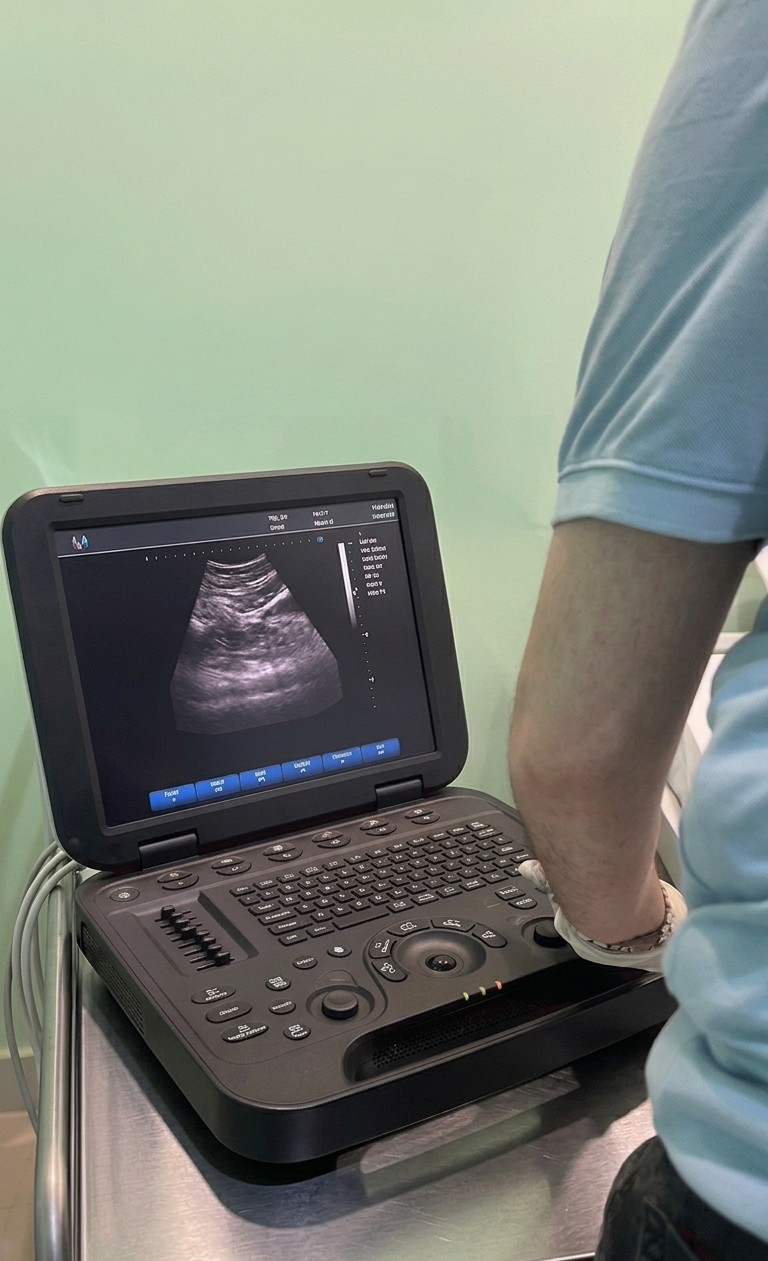
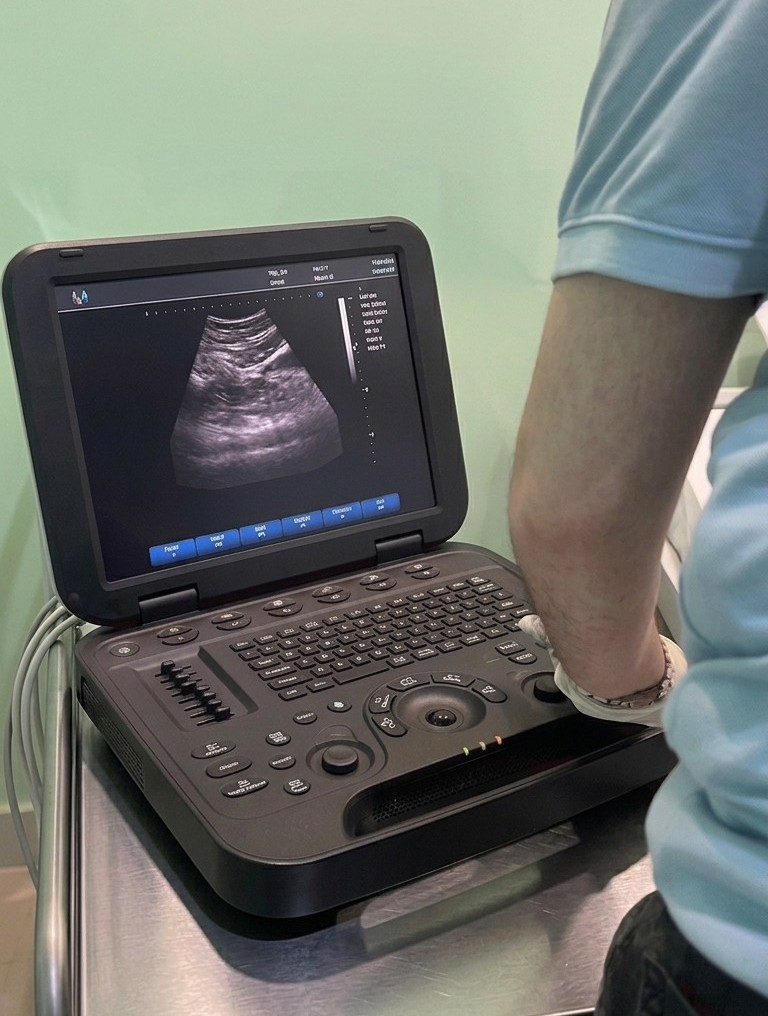
Frontend pictures and reviews added

diff --git a/app/about/page.jsx b/app/about/page.jsx
@@ -43,7 +43,7 @@ export default function AboutPage() {
                 with a modern approach
               </span>
             </h1>
-            
+
             <p className="text-zinc-400 max-w-2xl mx-auto text-base md:text-lg leading-relaxed">
               We believe healthcare should be seamless, deeply personal, and powered by state-of-the-art technology. Learn more about the principles and medical professionals that guide us every single day.
             </p>
@@ -57,7 +57,7 @@ export default function AboutPage() {
 
           <div className="max-w-7xl mx-auto px-6 lg:px-8">
             <div className="grid grid-cols-1 lg:grid-cols-12 gap-12 lg:gap-16 items-center">
-              
+
               {/* CEO Picture side (Left) */}
               <div className="lg:col-span-5 flex justify-center">
                 <div className="relative w-full max-w-sm aspect-[3/5] rounded-2xl overflow-hidden shadow-2xl border border-white/10 bg-zinc-900/40 backdrop-blur-2xl group flex items-center justify-center">
@@ -67,7 +67,7 @@ export default function AboutPage() {
                     alt="CEO Portrait"
                     className="w-full h-full object-cover transition-transform duration-500 group-hover:scale-105"
                   />
-                  
+
                   {/* Subtle caption banner */}
                   <div className="absolute bottom-4 left-4 right-4 bg-zinc-950/80 backdrop-blur-md px-4 py-3.5 rounded-xl border border-white/10 shadow-lg">
                     <h4 className="font-bold text-white text-sm">Tajammal Gauhar</h4>
@@ -82,14 +82,14 @@ export default function AboutPage() {
                   <div className="w-8 h-8 rounded-lg bg-white/5 border border-white/10 flex items-center justify-center text-brand-300">
                   </div>
                 </div>
-                
+
                 <h2 className="text-3xl sm:text-4xl font-bold tracking-tight text-white mb-6 leading-tight">
                   A Message From Our, <br />
                   <span className="text-transparent bg-clip-text bg-gradient-to-r from-brand-300 via-teal-300 to-emerald-400">
                     Medical Director
                   </span>
                 </h2>
-                
+
                 <div className="space-y-4 text-zinc-400 text-sm sm:text-base leading-relaxed">
                   <p>
                     At Tj&apos;s Medical Hub, we deliver safe, reliable and compassionate care, focused on accurate diagnosis, modern treatment and making every patient feel respected and valued.
@@ -120,7 +120,7 @@ export default function AboutPage() {
           <div className="absolute top-1/4 right-1/4 w-80 h-80 rounded-full bg-emerald-500/5 blur-3xl pointer-events-none -z-10" />
 
           <div className="max-w-7xl mx-auto px-6 lg:px-8">
-            
+
             <div className="text-center mb-16">
               <span className="inline-block text-[11px] font-semibold tracking-widest uppercase text-zinc-300 bg-white/5 border border-white/10 px-3 py-1 rounded-full mb-3">
                 OUR VALUES
@@ -131,7 +131,7 @@ export default function AboutPage() {
             </div>
 
             <div className="grid grid-cols-1 md:grid-cols-3 gap-5">
-              
+
               {/* Card 1: Trusted */}
               <div className="bg-zinc-950/40 backdrop-blur-2xl rounded-2xl border border-white/6 p-8 hover:bg-black hover:border-brand-500/20 hover:shadow-[0_10px_40px_rgba(6,148,162,0.04)] transition-all duration-300 group">
                 <div className="w-12 h-12 rounded-xl bg-white/5 border border-white/8 flex items-center justify-center mb-6 group-hover:bg-brand-500/10 group-hover:border-brand-400/20 transition-colors">
@@ -207,7 +207,7 @@ export default function AboutPage() {
               <div className="grid grid-cols-1 lg:grid-cols-12 gap-12 items-center">
                 {/* Image Side */}
                 <div className="lg:col-span-6 flex justify-center">
-                  <div className="relative w-full aspect-video rounded-2xl overflow-hidden shadow-2xl border border-white/10 bg-zinc-900/40 backdrop-blur-2xl group transition-all duration-500 hover:border-brand-400/40 hover:shadow-[0_0_30px_rgba(6,148,162,0.15)]">
+                  <div className="relative w-full rounded-2xl overflow-hidden shadow-2xl border border-white/10 bg-zinc-900/40 backdrop-blur-2xl group transition-all duration-500 hover:border-brand-400/40 hover:shadow-[0_0_30px_rgba(6,148,162,0.15)]">
                     <img
                       src="/Clinic%20Front%20view.png"
                       alt="Clinic Front View"
@@ -263,7 +263,7 @@ export default function AboutPage() {
               <div className="grid grid-cols-1 lg:grid-cols-12 gap-12 items-center">
                 {/* Image Side */}
                 <div className="lg:col-span-6 flex justify-center">
-                  <div className="relative w-full aspect-video rounded-2xl overflow-hidden shadow-2xl border border-white/10 bg-zinc-900/40 backdrop-blur-2xl group transition-all duration-500 hover:border-brand-400/40 hover:shadow-[0_0_30px_rgba(6,148,162,0.15)]">
+                  <div className="relative w-full aspect-5/4 rounded-2xl overflow-hidden shadow-2xl border border-white/10 bg-zinc-900/40 backdrop-blur-2xl group transition-all duration-500 hover:border-brand-400/40 hover:shadow-[0_0_30px_rgba(6,148,162,0.15)]">
                     <img
                       src="/beds.jpeg"
                       alt="Clinic recovery beds"
@@ -319,7 +319,7 @@ export default function AboutPage() {
               <div className="grid grid-cols-1 lg:grid-cols-12 gap-12 items-center">
                 {/* Image Side */}
                 <div className="lg:col-span-6 flex justify-center">
-                  <div className="relative w-full aspect-video rounded-2xl overflow-hidden shadow-2xl border border-white/10 bg-zinc-900/40 backdrop-blur-2xl group transition-all duration-500 hover:border-brand-400/40 hover:shadow-[0_0_30px_rgba(6,148,162,0.15)]">
+                  <div className="relative w-full aspect-6/5 rounded-2xl overflow-hidden shadow-2xl border border-white/10 bg-zinc-900/40 backdrop-blur-2xl group transition-all duration-500 hover:border-brand-400/40 hover:shadow-[0_0_30px_rgba(6,148,162,0.15)]">
                     <img
                       src="/Ultrasound%20Gadget.jpeg"
                       alt="Diagnostic Ultrasound Technology"
@@ -353,7 +353,7 @@ export default function AboutPage() {
           <div className="absolute bottom-10 left-10 w-96 h-96 rounded-full bg-brand-500/5 blur-3xl pointer-events-none -z-10" />
 
           <div className="max-w-7xl mx-auto px-6 lg:px-8">
-            
+
             <div className="text-center mb-16">
               <span className="inline-block text-[11px] font-semibold tracking-widest uppercase text-zinc-300 bg-white/5 border border-white/10 px-3 py-1 rounded-full mb-3">
                 TEAM EXPERTS
@@ -361,54 +361,44 @@ export default function AboutPage() {
               <h2 className="text-3xl sm:text-4xl font-bold tracking-tight text-transparent bg-clip-text bg-gradient-to-r from-white via-zinc-200 to-zinc-400 mt-2 mb-4">
                 Dedicated professionals centered on your well-being
               </h2>
-              <p className="text-zinc-400 max-w-xl mx-auto text-sm leading-relaxed">
+              <p className="text-zinc-400 max-w-xl mx-auto text-md leading-relaxed">
                 Our board-certified clinical specialists bring years of experience and specialized knowledge to manage your healthcare journey safely and comprehensively.
               </p>
             </div>
 
-            <div className="grid grid-cols-1 md:grid-cols-2 gap-8 max-w-4xl mx-auto">
-{/*               
-              {/* Doctor 1 
-              <div className="bg-zinc-950/40 backdrop-blur-2xl rounded-2xl border border-white/6 p-8 flex flex-col items-center text-center hover:bg-black hover:border-brand-500/20 hover:shadow-[0_10px_40px_rgba(6,148,162,0.04)] transition-all duration-300 group">
-                <div className="relative w-40 h-45 rounded-[20%] overflow-hidden mb-6 shadow-xl border-2 border-white/10 bg-zinc-900 group-hover:border-brand-400/40 transition-all duration-300 flex items-center justify-center">
-                  <img
-                    src="/doctor1.jpg"
-                    alt="Dr. Aisha Rehman"
-                    className="w-full h-full object-cover transition-transform duration-500 group-hover:scale-105"
-                  />
-                </div>
+          </div>
+          <div className="max-w-7xl mx-auto px-6 lg:px-8">
+            <div className="text-center mb-20">
+            </div>
 
-                <h3 className="font-bold text-white text-lg mb-1 group-hover:text-brand-300 transition-colors">
-                  Dr. Aisha Rehman
-                </h3>
-                <span className="text-[10px] font-bold tracking-widest text-brand-300 bg-brand-500/10 border border-brand-400/20 px-2.5 py-0.5 rounded-full mb-5 uppercase">
-                  Lead Primary Care Physician
-                </span>
-                <p className="text-zinc-400 text-sm leading-relaxed max-w-xs">
-                  Dr. Aisha Rehman specializes in preventative medicine and family health. She is committed to forming long-term, supportive partnerships to help patients prevent diseases and adopt healthy lifestyles.
-                </p>
+            <div className="space-y-24">
+              {/* 1. Staff Members */}
+              <div className="grid grid-cols-1 lg:grid-cols-12 gap-12 items-center">
+                {/* Image Side */}
+                <div className="lg:col-span-6 flex justify-center">
+                  <div className="relative w-full aspect-[6/5] rounded-2xl overflow-hidden shadow-2xl border border-white/10 bg-zinc-900/40 backdrop-blur-2xl group transition-all duration-500 hover:border-brand-400/40 hover:shadow-[0_0_30px_rgba(6,148,162,0.15)]">
+                    <img
+                      src="/Staff.jpeg"
+                      alt="Clinic Front View"
+                      className="w-full h-full object-cover transition-transform duration-700 group-hover:scale-105"
+                    />
+                    <div className="absolute inset-0 bg-gradient-to-t from-black/60 via-transparent to-transparent pointer-events-none" />
+                  </div>
+                </div>
+                {/* Text Side */}
+                <div className="lg:col-span-6 space-y-4">
+                  <div className="inline-flex items-center gap-2 px-3 py-1 rounded-lg bg-brand-500/10 border border-brand-500/20 text-brand-300 text-xs font-semibold">
+                    <Stethoscope className="w-3.5 h-3.5" />
+                    Exceptional Nursing Team
+                  </div>
+                  <h3 className="text-2xl font-bold text-white">
+                    The Heart of Our Care
+                  </h3>
+                  <p className="text-zinc-400 text-sm sm:text-base leading-relaxed">
+Our clinic is empowered by an exceptional nursing team, standing as the vital backbone of our healthcare mission. Driven by a deep respect for life, their compassionate care and unwavering support are crucial to our patients' healing and our growth. Through love and dedication, they proudly contribute to a healthier society.
+                  </p>
+                </div>
               </div>
-
-              {/* Doctor 2 
-              <div className="bg-zinc-950/40 backdrop-blur-2xl rounded-2xl border border-white/6 p-8 flex flex-col items-center text-center hover:bg-black hover:border-brand-500/20 hover:shadow-[0_10px_40px_rgba(6,148,162,0.04)] transition-all duration-300 group">
-                <div className="relative w-40 h-45 rounded-[20%] overflow-hidden mb-6 shadow-xl border-2 border-white/10 bg-zinc-900 group-hover:border-brand-400/40 transition-all duration-300 flex items-center justify-center">
-                  <img
-                    src="/doctor2.jpg"
-                    alt="Dr. Marcus Chen"
-                    className="w-full h-full object-cover transition-transform duration-500 group-hover:scale-105"
-                  />
-                </div>
-
-                <h3 className="font-bold text-white text-lg mb-1 group-hover:text-brand-300 transition-colors">
-                  Dr. Marcus Chen
-                </h3>
-                <span className="text-[10px] font-bold tracking-widest text-brand-300 bg-brand-500/10 border border-brand-400/20 px-2.5 py-0.5 rounded-full mb-5 uppercase">
-                  Consultant Cardiologist
-                </span>
-                <p className="text-zinc-400 text-sm leading-relaxed max-w-xs">
-                  Dr. Marcus Chen focuses on advanced cardiovascular health and stroke prevention. Combining patient-centric therapeutic options with telehealth, he guides clients toward optimal heart wellness.
-                </p>
-              </div> */}
 
             </div>
           </div>

diff --git a/components/landing/TestimonialsSection.jsx b/components/landing/TestimonialsSection.jsx
@@ -2,22 +2,22 @@ import { Star } from 'lucide-react'
 
 const testimonials = [
   {
-    initials: 'SM',
-    name: 'Sarah M.',
-    role: 'Patient since 2022',
-    quote: "I booked a specialist appointment in under 3 minutes. No hold music, no forms to fax. I genuinely didn't know healthcare could feel this easy.",
+    initials: 'SI',
+    name: 'Sabina Imran',
+    role: 'Satisfied Patient',
+    quote: "Dr Tj is serving the community with honesty, dedication, and compassion, where quality healthcare meets genuine care i repeat GENUINE care. He puts his heart and soul for overall wellbeing of a patient both physically and mentally. God bless you keep up the hard work.",
   },
   {
-    initials: 'KA',
-    name: 'Dr. Khalid A.',
-    role: 'Cardiologist',
-    quote: "The doctor-side portal is the first system I've used that actually fits into my workflow rather than fighting it. My admin burden dropped by 40%.",
+    initials: 'MM',
+    name: 'Meli Mughal',
+    role: 'Satisfied Patient',
+    quote: "Today I visited Tj's Medical Hub for a checkup, and I had a really good experience there. The environment was clean and comfortable, and all the doctors were very kind and professional. Especially, the staff guided me very well and were extremely helpful and respectful. Overall, I am very satisfied with their service and highly appreciate the staff and doctors.",
   },
   {
-    initials: 'JT',
-    name: 'James T.',
-    role: 'Patient',
-    quote: 'After moving cities, I was dreading finding a new GP. I had a verified doctor booked within the hour and my records transferred automatically. Remarkable.',
+    initials: 'NS',
+    name: 'Neha Salman',
+    role: 'Satisfied Patient',
+    quote: 'Doctor Tajjammal is the best Doctor highly recommend. Excellent care and quick response from the medical team. The staff treated patients with kindness and respect. One of the best healthcare experiences I’ve had',
   },
 ]
 

diff --git a/components/landing/TrustStrip.jsx b/components/landing/TrustStrip.jsx
@@ -1,12 +1,10 @@
 const institutions = [
-  'General Hospital',
-  'City Medical Center',
-  'HealthFirst Clinic',
-  'MedCore Institute',
-  'National Health Network',
-  'Sunrise Hospital',
-  'CarePoint Medical',
-  'Mercy Health Group',
+  'Emergency checkups',
+  'Routine OPD',
+  'Emergency Retention',
+  'Ultrasound & ECG',
+  'Cardiac Monitoring',
+  'Advanced Blood Diagnostics'
 ]
 
 export default function TrustStrip() {
@@ -14,7 +12,7 @@ export default function TrustStrip() {
     <div className="w-full bg-black py-8">
       <div className="max-w-7xl mx-auto px-6">
         <p className="text-[12px] font-semibold tracking-widest uppercase text-zinc-400 mb-6 text-center">
-          Trusted by healthcare institutions nationwide
+          Services Trusted By Healthcare Institutions
         </p>
         <div className="relative w-full overflow-hidden">
           <div className="absolute left-0 top-0 h-full w-12 bg-gradient-to-r from-black to-transparent z-10 pointer-events-none" />
